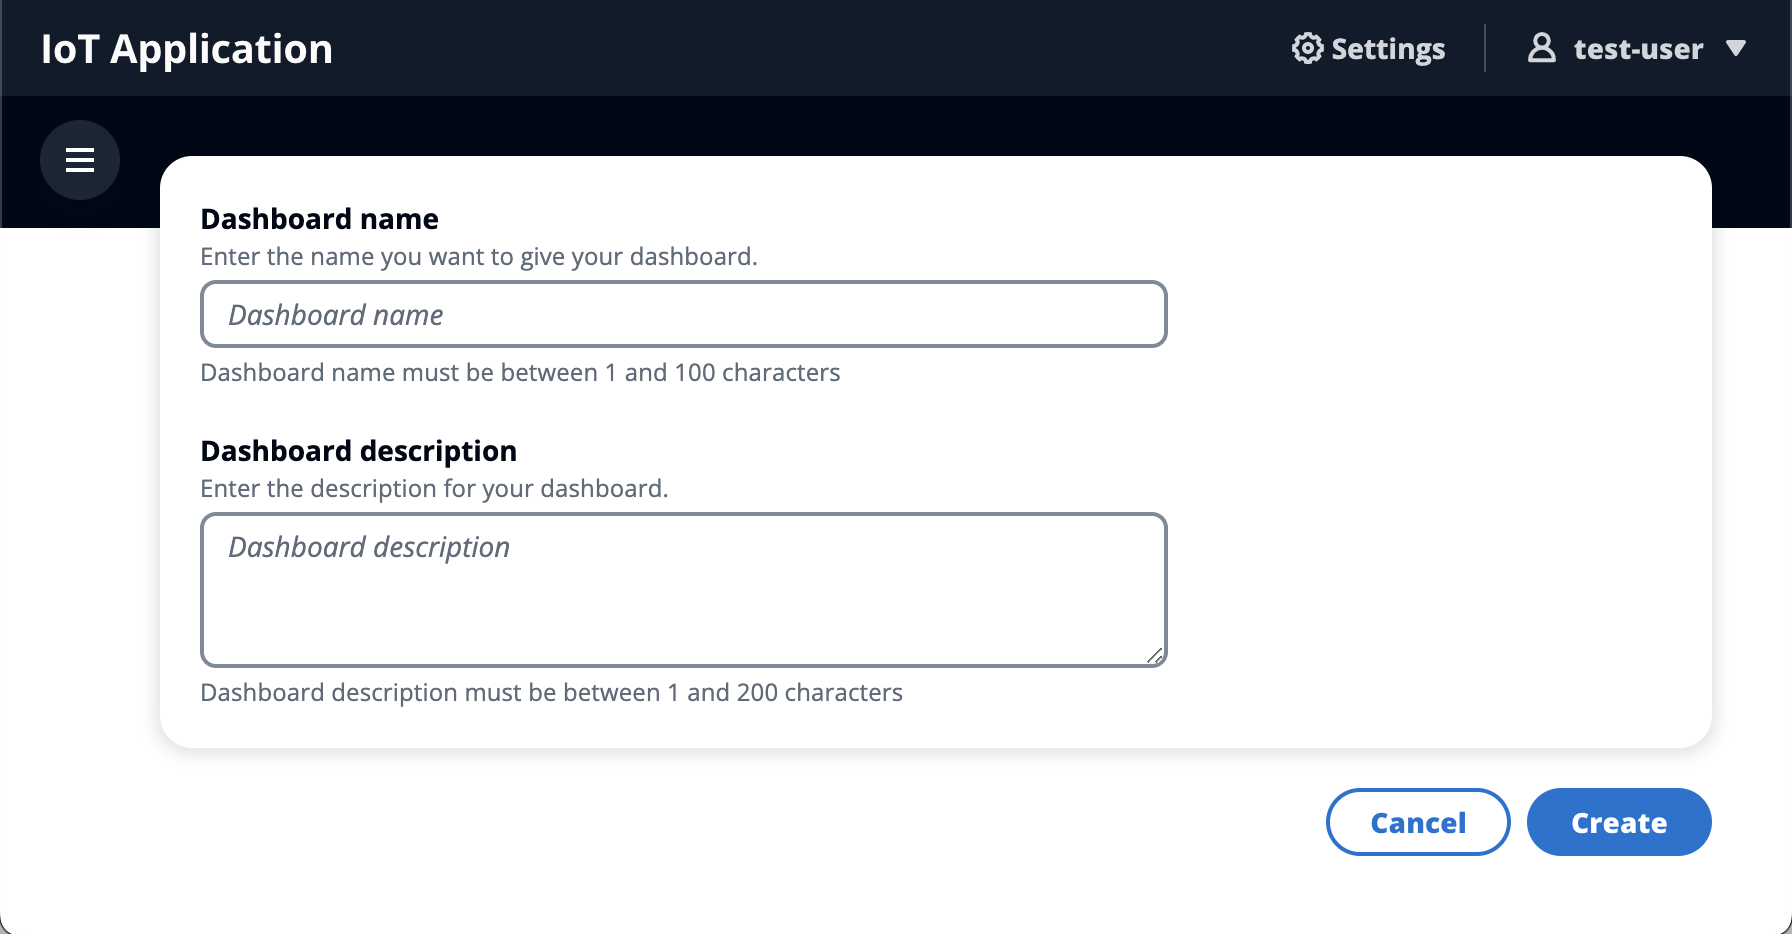
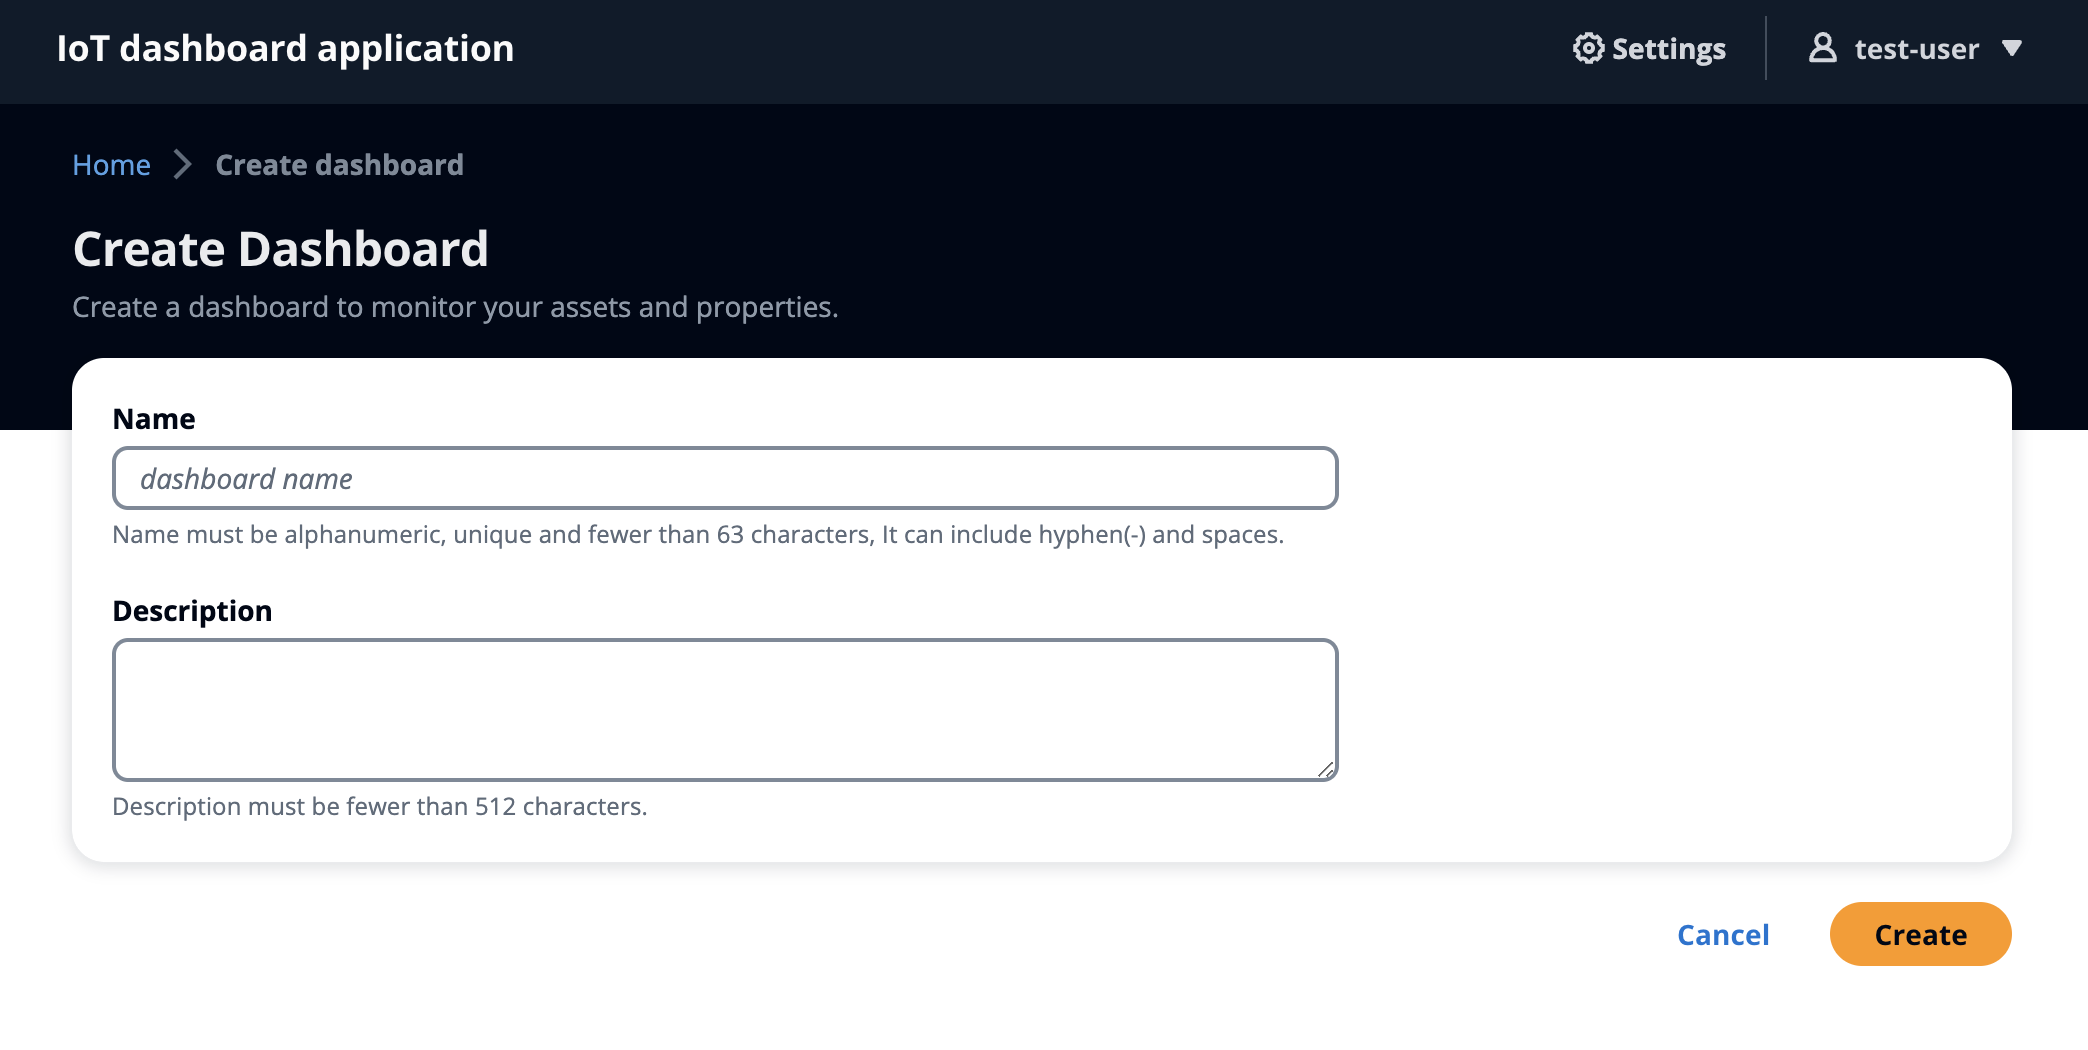
chore: change app naming

diff --git a/apps/client/src/routes/dashboards/dashboards-index/dashboards-index-page.spec.tsx b/apps/client/src/routes/dashboards/dashboards-index/dashboards-index-page.spec.tsx
@@ -114,14 +114,6 @@ describe('<DashboardsIndexPage />', () => {
   });
 
   describe('header', () => {
-    it('should render the Centurion Home text on dashboard page', () => {
-      render(<DashboardsIndexPage />);
-
-      const centurionHomeText = screen.getByText('Centurion Home');
-
-      expect(centurionHomeText).toBeInTheDocument();
-    });
-
     it('should open the delete dashboard modal when delete button is clicked', async () => {
       const user = userEvent.setup();
       render(<DashboardsIndexPage />);

diff --git a/apps/client/src/routes/dashboards/dashboards-index/components/getting-started.tsx b/apps/client/src/routes/dashboards/dashboards-index/components/getting-started.tsx
@@ -40,7 +40,7 @@ const GettingStarted = () => {
       className: 'getting-started-step1-icon',
       columnDescription: intl.formatMessage({
         defaultMessage:
-          'Create a dashboard in AWS IoT SiteWise Monitor. The dashboard provides a shared view of asset properties.',
+          'Create a dashboard in the IoT dashboard application. The dashboard provides a shared view of asset properties.',
         description: 'step 1 description',
       }),
     },

diff --git a/tests/auth.setup.ts b/tests/auth.setup.ts
@@ -20,7 +20,9 @@ setup('authenticate', async ({ page }) => {
   await page.getByRole('button', { name: 'Sign in' }).click();
 
   // user lands at home page
-  await expect(page.getByRole('heading', { name: 'Dashboards' })).toBeVisible();
+  await expect(
+    page.getByRole('heading', { name: 'Dashboards' }).first(),
+  ).toBeVisible();
 
   // storage of authentication state for tests
   await page.context().storageState({ path: authFile });

diff --git a/apps/client/src/routes/dashboards/dashboards-index/dashboards-index-page.tsx b/apps/client/src/routes/dashboards/dashboards-index/dashboards-index-page.tsx
@@ -163,8 +163,8 @@ export function DashboardsIndexPage() {
           <SpaceBetween size="m">
             <Header variant="h1">
               <FormattedMessage
-                defaultMessage="Centurion Home"
-                description="centurion home heading"
+                defaultMessage="Dashboards"
+                description="dashboards page heading"
               />
             </Header>
           </SpaceBetween>

diff --git a/tests/pages/dashboards-index.page.ts b/tests/pages/dashboards-index.page.ts
@@ -146,7 +146,7 @@ export class DashboardsIndexPage {
 
   constructor(page: Page) {
     this.page = page;
-    this.heading = page.getByRole('heading', { name: 'Dashboards' });
+    this.heading = page.getByRole('heading', { name: 'Dashboards' }).nth(1);
     this.preferencesButton = page.getByRole('button', { name: 'Preferences' });
     this.createButton = page.getByRole('button', {
       name: 'Create dashboard',

diff --git a/apps/client/src/routes/dashboards/dashboards-index/components/migration.tsx b/apps/client/src/routes/dashboards/dashboards-index/components/migration.tsx
@@ -54,7 +54,7 @@ const Migration = (props: MigrationProps) => {
       headerText={
         <FormattedMessage
           defaultMessage="Dashboard migration"
-          description="Migrate your dashboards from SiteWise Monitor to IoT Application."
+          description="Migrate your dashboards from SiteWise Monitor."
         />
       }
       headerActions={

diff --git a/apps/client/src/layout/components/top-navigation/top-navigation.tsx b/apps/client/src/layout/components/top-navigation/top-navigation.tsx
@@ -28,7 +28,7 @@ export function TopNavigation() {
         identity={{
           href: ROOT_HREF,
           title: intl.formatMessage({
-            defaultMessage: 'IoT Application',
+            defaultMessage: 'IoT dashboard application',
             description: 'top navigation home link',
           }),
           onFollow: (event) => {

diff --git a/apps/client/src/routes/root/root-error-page.spec.tsx b/apps/client/src/routes/root/root-error-page.spec.tsx
@@ -21,7 +21,7 @@ describe('<RootErrorPage />', () => {
     ).toBeVisible();
 
     await user.click(
-      screen.getByRole('link', { name: 'IoT Application home page' }),
+      screen.getByRole('link', { name: 'IoT dashboard application home page' }),
     );
 
     expect(navigateMock).toHaveBeenCalledWith('/');

diff --git a/apps/client/src/routes/root/root-error-page.tsx b/apps/client/src/routes/root/root-error-page.tsx
@@ -36,7 +36,7 @@ export function RootErrorPage() {
           }}
         >
           <FormattedMessage
-            defaultMessage="IoT Application home page"
+            defaultMessage="IoT dashboard application home page"
             description="page not found link"
           />
         </Link>

diff --git a/apps/client/src/routes/root/root-route.tsx b/apps/client/src/routes/root/root-route.tsx
@@ -24,7 +24,7 @@ export const rootRoute = {
     activeHref: ROOT_HREF,
     crumb: () => ({
       text: intl.formatMessage({
-        defaultMessage: 'Centurion Home',
+        defaultMessage: 'Home',
         description: 'root route breadcrumb text',
       }),
       href: ROOT_HREF,

diff --git a/apps/client/public/index.html b/apps/client/public/index.html
@@ -12,7 +12,7 @@
   <meta name="userPoolWebClientId" content="{{userPoolWebClientId}}" />
   <meta name="userPoolId" content="{{userPoolId}}" />
 
-  <title>IoT Application</title>
+  <title>IoT dashboard application</title>
 </head>
 
 <body>

diff --git a/apps/core/src/migration/README.md b/apps/core/src/migration/README.md
@@ -2,26 +2,29 @@
 
 `MigrationModule` extends Core with the `/migration` REST API.
 
-This module is for an API for converting SiteWise Monitor dashboards to IoT Application dashboards.
+This module is for an API for converting SiteWise Monitor dashboards to IoT dashboard application dashboards.
 
 # Dashboard definition conversion
 
 This service takes customer's SiteWise Monitor dashboard definitions and converts them to IoT Application dashboard definitions. There are some important differences between the two dashboard definitions that can make this conversion complicated.
 
 ### Feature differences
-* SiteWise Monitor supports an alarms feature, while IoT Application currently does not
-* KPI and Status Grid in SiteWise Monitor support multiple datastreams per widget, in IoT Application we support one datastream per widget
-* There is a different layout system in each application
-* Colors are different between applications
+
+- SiteWise Monitor supports an alarms feature, while IoT Application currently does not
+- KPI and Status Grid in SiteWise Monitor support multiple datastreams per widget, in IoT Application we support one datastream per widget
+- There is a different layout system in each application
+- Colors are different between applications
 
 ### KPI and Status Grid Differences
-The logic to convert KPI and Status Grid widgets from SiteWise Monitor to IoT Application is complicated because there is a one-to-many relationship from SiteWise Monitor to IoT Application widgets and feature differences. 
+
+The logic to convert KPI and Status Grid widgets from SiteWise Monitor to IoT Application is complicated because there is a one-to-many relationship from SiteWise Monitor to IoT Application widgets and feature differences.
 
 In Monitor, as datastreams are added to a KPI/Grid widget, Monitor automatically resizes these sub-widgets to fit within the bounds of the containing widget. If the screen space is filled, a scrollbar is added and customers can scroll to view all their datastreams within the single KPI/Grid widget. These features do not exist in this IoT Application, so the service attempts to convert the definitions in a way that maintain these properties and match closely visually.
 
 The conversion process follows this logic:
-* When there are few (relative to the total size of the containing KPI/Grid widget) sub-widgets, scale them to fit within the size of the containg widget. For example if the Monitor KPI widget is a 9x9 grid, and there is 1 sub-widget, make this sub-widgets size 9x9. If there is 2 sub-widgets, divide this in half, etc. up until the minimim size values.
-* When there are many sub-widgets, use the minimum size value and lay them out in rows/columns within the bounds of the containing widget. Because we don't support a scrolling widget, if the Monitor widget has so many sub-widgets that there is a scrollbar, the IoT Applications will overflow and may overlap with other widgets.
+
+- When there are few (relative to the total size of the containing KPI/Grid widget) sub-widgets, scale them to fit within the size of the containg widget. For example if the Monitor KPI widget is a 9x9 grid, and there is 1 sub-widget, make this sub-widgets size 9x9. If there is 2 sub-widgets, divide this in half, etc. up until the minimim size values.
+- When there are many sub-widgets, use the minimum size value and lay them out in rows/columns within the bounds of the containing widget. Because we don't support a scrolling widget, if the Monitor widget has so many sub-widgets that there is a scrollbar, the IoT Applications will overflow and may overlap with other widgets.
 
 # Single-threaded execution
 
